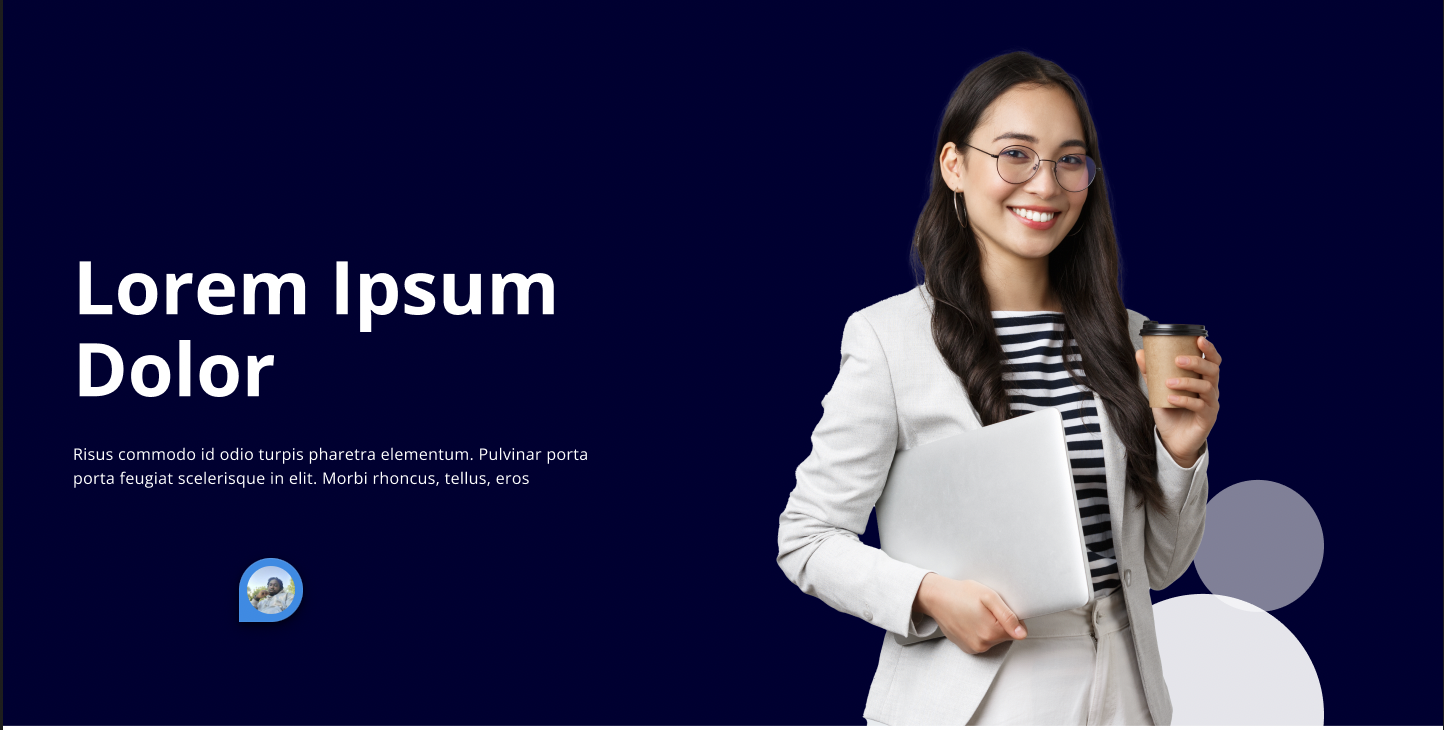
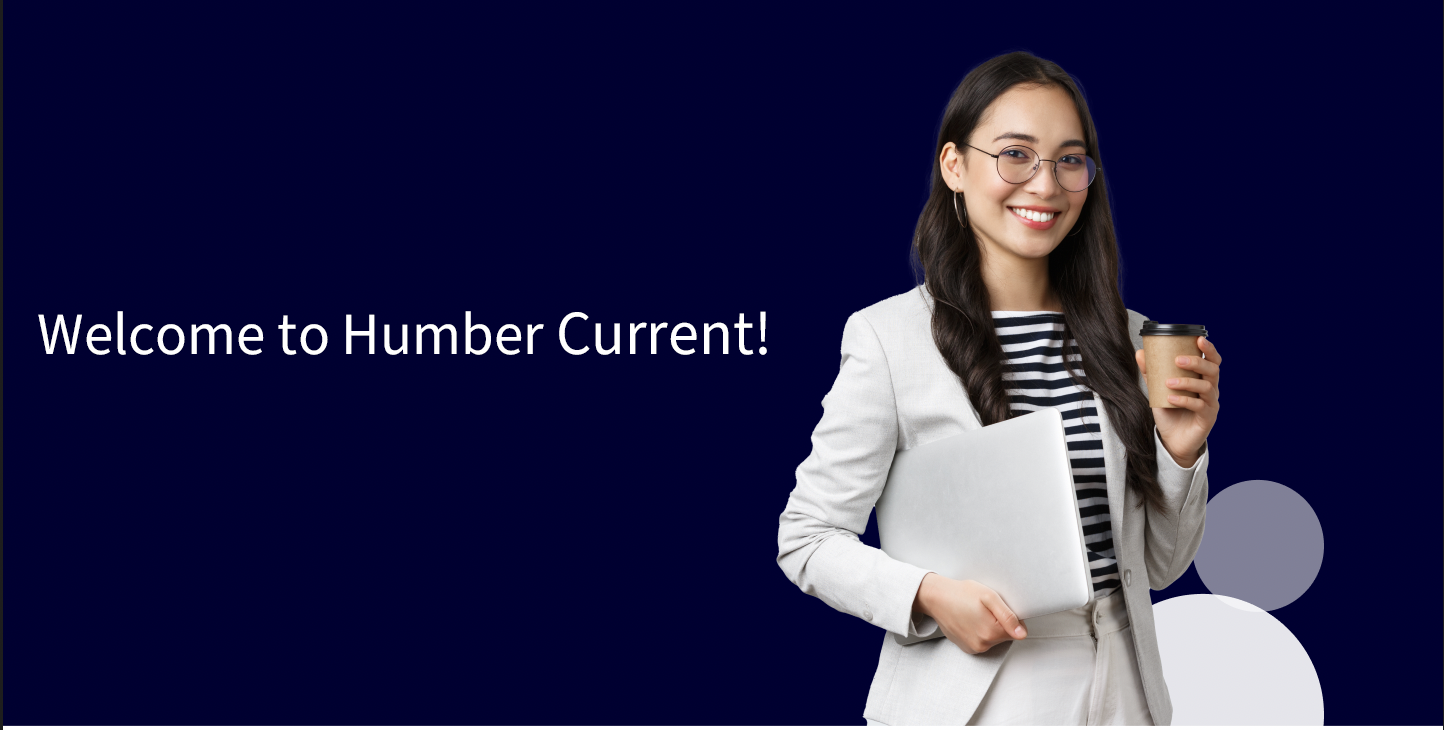
Add files via upload

Changed region(s): [[0.0312, 0.3616, 0.5298, 0.5425], [0.0623, 0.6027, 0.4051, 0.663], [0.1558, 0.7534, 0.2181, 0.874]]

diff --git a/index.html b/index.html
@@ -2,7 +2,7 @@
 <html lang="en">
     <head>
         <meta charset="utf-8">
-        <title>Humbercurrent</title>
+        <title>Humber Current</title>
         <link href="css/style.css" rel="stylesheet">
         <script src="https://kit.fontawesome.com/c54b7d85ab.js" crossorigin="anonymous"></script>
         <script src="https://code.iconify.design/iconify-icon/1.0.2/iconify-icon.min.js"></script>
@@ -100,7 +100,7 @@
         <main>
             <img src="images/banner.png" class="banner" alt="">
             <div class="abouthumber">
-            <p class="title">About HumberCurrent</p>
+            <p class="title">About Humber Current</p>
             <p class="description">Are you looking to network with your Media & Arts family here at Humber? Current is Humber’s latest and upgraded platform exactly for you! Alumni from multiple facets of media, design and art use this platform to showcase their wonderful work from everything they learned while completing their Humber courses.</p>
             <p class="description">Featuring live and recorded performances, screenings, exhibits, networking events and portfolio shows, current celebrates the ingenuity and professionalism of an electric group of storytellers.</p>
             <p class="description">Use this platform as a way to find fresh talent or engage with fellow alumni. Explore the work of Humber media students by program clusters.</p>
